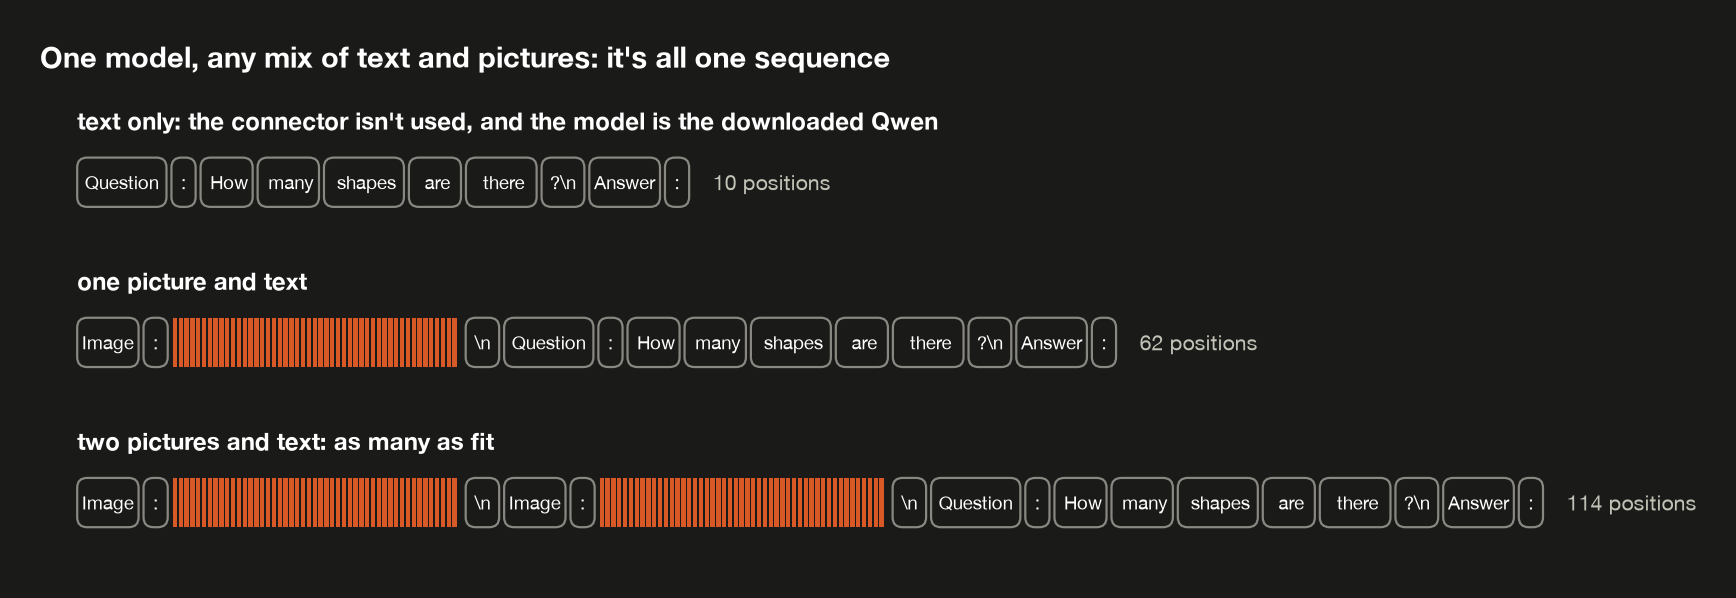
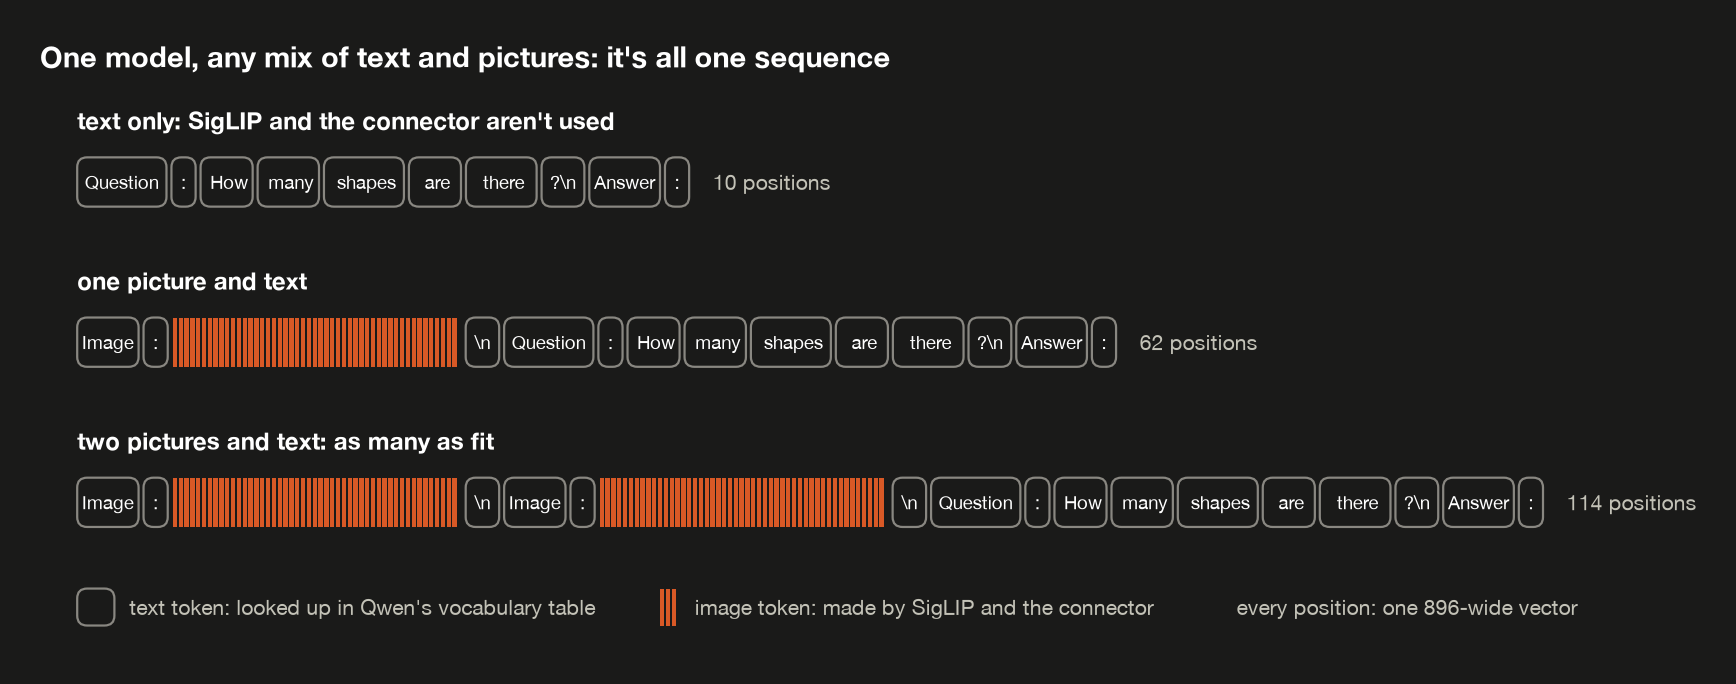
Post 7: section 7 in three parts (one sequence, Qwen's text, two pictures), verified Qwen2-VL quotes, figure key
Two PENDING markers wait on the demo re-run: s7t split into positions and perplexity,
and the new three-inputs receipt.

diff --git a/_posts/2026-11-03-llm-architectures-multimodal.md b/_posts/2026-11-03-llm-architectures-multimodal.md
@@ -931,19 +931,23 @@ None of this shows how the connector represents color and shape, or that it lear
 
 ### 7. Text, a picture, or both {#text-pictures-or-both}
 
-Everything so far fed the model one picture and a question. A real multimodal model takes text alone, a picture alone, several pictures with text between them, in any order. Does that need different machinery for each case?
+Every example so far had one picture followed by one question. Real use is more varied: a question with no picture, one picture, or two pictures to compare. Does the model need different machinery for each? And now that it has learned to read pictures, has anything changed in how it reads plain text? This section takes those two questions in turn, then asks what being able to take two pictures does and doesn't mean.
 
-It doesn't, and the reason is [§2](#where-the-picture-goes): the language model only ever sees one sequence of vectors. Text pieces become vectors through the vocabulary table, each picture becomes 49 vectors through the encoder and connector, and the pieces are laid end to end in whatever order the input has them:
+#### One sequence for text and pictures {#one-sequence}
+
+No new machinery is needed, because Qwen only ever reads one sequence of vectors ([§2](#where-the-picture-goes)). The two kinds of input reach it by different paths. A text token is looked up in Qwen's vocabulary table. A picture goes through SigLIP and the connector and comes out as 49 vectors. Both kinds are 896 wide, so they can be laid end to end in whatever order the input has them:
 
 <!-- FIGURE: input-mixes -->
-![Three inputs to the same model: text only, with no image vectors; one picture's 49 vectors followed by the question; and two pictures' vectors, each after its own Image: marker, followed by the question](/assets/picture/2026-10-11-llm-architectures-multimodal/input-mixes-light.png){: .light width="1000" height="344" }
-![Three inputs to the same model: text only, with no image vectors; one picture's 49 vectors followed by the question; and two pictures' vectors, each after its own Image: marker, followed by the question](/assets/picture/2026-10-11-llm-architectures-multimodal/input-mixes-dark.png){: .dark width="1000" height="344" }
+![Three rows of positions: text only, ten text tokens; one picture and text, the label Image:, 49 image tokens, then the question, 62 positions; two pictures and text, 114 positions. A key says text tokens are looked up in Qwen's vocabulary table, image tokens are made by SigLIP and the connector, and every position is one 896-wide vector](/assets/picture/2026-10-11-llm-architectures-multimodal/input-mixes-light.png){: .light width="1000" height="394" }
+![Three rows of positions: text only, ten text tokens; one picture and text, the label Image:, 49 image tokens, then the question, 62 positions; two pictures and text, 114 positions. A key says text tokens are looked up in Qwen's vocabulary table, image tokens are made by SigLIP and the connector, and every position is one 896-wide vector](/assets/picture/2026-10-11-llm-architectures-multimodal/input-mixes-dark.png){: .dark width="1000" height="394" }
 
-- **Text only.** No picture, so no image vectors, and the encoder and connector aren't run at all. What's left is the language model reading text, exactly as it would on its own.
-- **One picture and text.** This post's training format.
-- **Several pictures.** Each picture adds its own 49 vectors wherever it appears. Nothing in the language model limits how many, only the length of sequence it can handle and the memory [§8](#what-an-image-costs) puts a price on.
+- **Text only.** No picture, so SigLIP and the connector aren't run at all. What's left is Qwen reading text, as it would on its own.
+- **One picture and text.** The format every training example used.
+- **Two pictures, or more.** Each picture adds its own 49 vectors wherever it appears, with its own `Image:` label in front. Nothing in Qwen limits how many, only the length of sequence it can handle and the memory [§8](#what-an-image-costs) puts a price on.
 
-The demo's [`interleave`](https://github.com/bearbearyu1223/llm-architectures-refresher/blob/main/src/llmrefresher/vlm.py) builds any of these from a list of text and pictures, and here's what each costs in positions ([`text_pictures_or_both`](https://github.com/bearbearyu1223/llm-architectures-refresher/blob/main/src/llmrefresher/demos/d07_multimodal.py)):
+Matching the width only makes the image vectors something Qwen can take in. Training the connector is what makes them mean something to it ([§2](#the-connector), [§3](#stage-one)).
+
+The demo's [`interleave`](https://github.com/bearbearyu1223/llm-architectures-refresher/blob/main/src/llmrefresher/vlm.py) builds any of these from a list of text and pictures. What each costs in positions ([`text_pictures_or_both`](https://github.com/bearbearyu1223/llm-architectures-refresher/blob/main/src/llmrefresher/demos/d07_multimodal.py)):
 
 <!-- RECEIPT: s7t -->
 ```text
@@ -968,13 +972,31 @@ The demo's [`interleave`](https://github.com/bearbearyu1223/llm-architectures-re
      the arm that trains LoRA adapters can change it.
 ```
 
-The question here is shorter than §2's, so one picture and text comes to 62 positions rather than 64.
+Every picture here is 224 × 224, so it always becomes 196 patches and, after the merge, 49 positions, whatever it shows. The rest is text. The question is 10 tokens, 11 with the line break before it when a picture comes first, and each `Image:` label is 2 tokens, 3 with its own line break. So one picture and text comes to 2 + 49 + 11 = 62, and a second picture adds 3 + 49 = 52, for 114. The question here is shorter than §2's, which is why one picture and text comes to 62 positions rather than 64.
 
-The second table answers the question a careful reader should ask next: did teaching the model about pictures cost it anything on plain text? It scores every model's **perplexity**, how surprised it is by each next token of ordinary text ([post 4](/posts/llm-architectures-quantization/)), on post 4's passage, the same 550 tokens of ordinary prose [post 6](/posts/llm-architectures-lora/#what-it-forgot) used to see what fine-tuning disturbed. The two versions that kept the language model frozen score 20.8706, identical to the model as downloaded, to every digit printed, and that's guaranteed rather than lucky. With no picture in the input, the encoder and connector never run, and the language model's weights are the ones it shipped with, so text goes through exactly the computation it always did. Only the Caption → QA + LoRA model changed the language model, so only it can move, and it did, a little: a median of 20.89, with the three seeds between 20.88 and 21.14. That's slightly worse, in the same direction as post 6's adapters, which pushed the same passage to between 20.93 and 25.39, though by far less. And it bought nothing measurable: [§4](#stage-two) found no score the Caption → QA + LoRA model improved beyond the spread between seeds. The frozen design promises the model's text behavior can't change; the Caption → QA + LoRA model gave up that promise for no consistent gain in these runs.
+#### What happened to Qwen's text? {#what-happened-to-text}
 
-This is a big reason so many recipes keep the language model frozen for the first stage, and some keep it frozen throughout. Train it, and its plain-text behavior is no longer guaranteed; it has to be measured, as here, on more than one passage.
+Training taught the model to read pictures. Did that cost anything on plain text? The demo scores each model's **perplexity**, how surprised it is by each next token of ordinary text ([post 4](/posts/llm-architectures-quantization/)), on post 4's passage, the same 550 tokens of prose [post 6](/posts/llm-architectures-lora/#what-it-forgot) used to see what fine-tuning disturbed. Lower is better:
 
-**What this model can't do, and real ones can.** Being *able* to read two pictures isn't the same as having *learned* to. This model only ever trained on one picture followed by one question, so it has never had to say which picture a question means, or compare two. Real models train on exactly that. [Flamingo](https://arxiv.org/abs/2204.14198) was designed to "handle sequences of arbitrarily interleaved visual and textual data" (abstract), and trained on web pages where pictures and text alternate. Real models also mark where a picture starts and stops with special tokens rather than this post's plain word `Image:`. [Qwen2-VL](https://arxiv.org/abs/2409.12191)'s `<|vision_start|>` and `<|vision_end|>` "are inserted at the start and end of the image feature sequence to demarcate the image content" (§2.2.1), and it packs pictures of different sizes into one sequence. The same idea stretches to video: Qwen2-VL samples "each video at two frames per second" and turns the frames into tokens the same way it turns pictures into tokens; for consistency it even treats a single picture as "two identical frames" (§2.1).
+<!-- PENDING (rerun): split s7t; the perplexity table goes here as its own receipt (s7p). -->
+
+**Where Qwen stayed frozen, nothing changed.** QA only and Caption → QA score 20.8706, the same as the downloaded model to every digit printed, and that's guaranteed rather than lucky. Their training changed only the connector, and with no picture the connector isn't used: the same text goes in, through the same weights, in the same way, so the same predictions come out. The guarantee comes from that identical computation, not from the word "frozen" alone. Change the prompt format, the tokenizer or how positions are numbered, and text-only outputs could change even with Qwen's weights untouched.
+
+**The LoRA model is different.** Caption → QA + LoRA trained an adapter inside Qwen during stage 2, so its computation on text changed too. On this passage, its median perplexity rose a little, to 20.89, with the three seeds between 20.88 and 21.14. That's small, and one 550-token passage can't say whether it reflects any real loss of language ability; that would take a broader text evaluation. It's in the same direction as post 6's adapters, which moved the same passage to between 20.93 and 25.39. And in [§4](#stage-two), LoRA showed no consistent improvement on the picture questions.
+
+So for this small VLM, keeping Qwen frozen was the better trade: the model learned to use pictures, and its text-only predictions provably didn't move. That's a big reason so many recipes keep the language model frozen for the first stage, and some keep it frozen throughout. Train it, and its text behavior has to be measured, on more than one passage, rather than assumed.
+
+#### Taking two pictures isn't understanding them {#two-pictures}
+
+`interleave` can build a sequence with two pictures, but being able to take an input isn't the same as knowing what to do with it. Every training example was one picture followed by one question. The model never had to work out which picture a question means, or compare two.
+
+So the demo asks each trained model three things: a text-only question, a question about one picture, and a question about two pictures that it was never trained on, "Which picture has a triangle, the first or the second?", where only the first one has a triangle ([`text_pictures_or_both`](https://github.com/bearbearyu1223/llm-architectures-refresher/blob/main/src/llmrefresher/demos/d07_multimodal.py)):
+
+<!-- PENDING (rerun): receipt s7m, what each model wrote for the three inputs, and what it shows. -->
+
+Real models train on exactly the kind of example this one never saw. Qwen2-VL's paper shows one in its data format: two pictures, each wrapped in `<|vision_start|>` and `<|vision_end|>`, then "What do the two pictures have in common?" (§2.2.1). Those special tokens "are inserted at the start and end of the image feature sequence to demarcate the image content" (§2.2.1), where this post uses the plain word `Image:`. [Flamingo](https://arxiv.org/abs/2204.14198) was designed to "handle sequences of arbitrarily interleaved visual and textual data" (abstract), and trained on web pages where pictures and text alternate. The same idea stretches to video: Qwen2-VL samples "each video at two frames per second" and turns the frames into tokens much as it does pictures (§2.1).
+
+The idea carries over at any scale: once a picture is vectors the language model can read, text and pictures share one sequence. The hard part isn't building that sequence. It's training the model to know what the pieces mean and how they relate.
 
 ---
 
